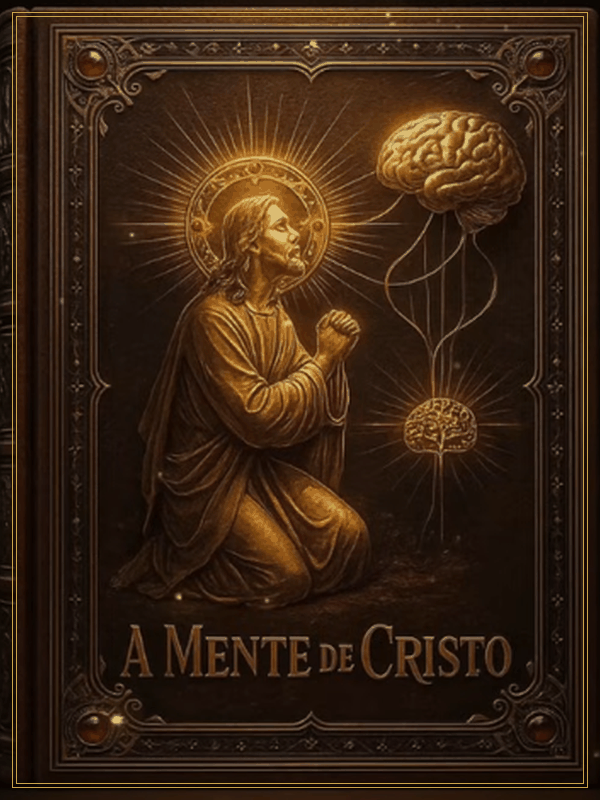
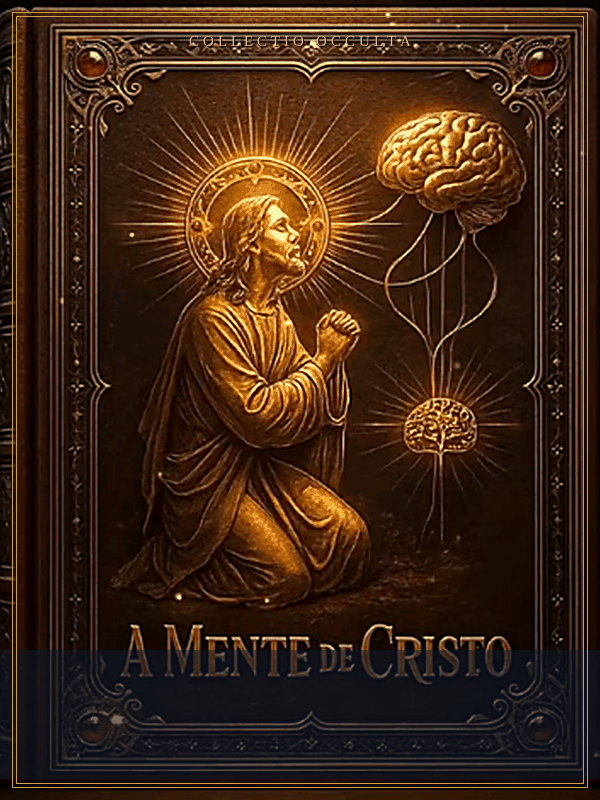
Livro 03 A Mente de Cristo: capa editada e melhorada (upscale+nitidez, contraste, vinheta, selo COLLECTIO OCCULTA, moldura dourada) e referências atualizadas para ?v=2 na Home e na página de leitura

diff --git a/analise/compraoseu.preview/mente_cristo_preview.html b/analise/compraoseu.preview/mente_cristo_preview.html
@@ -11,14 +11,14 @@
 <meta property="og:type" content="article">
 <meta property="og:title" content="A Mente de Cristo — Como Pensar com o Espírito e não com o Mundo">
 <meta property="og:description" content="17 capítulos baseados nos ensinamentos de Emmet Fox sobre pensar com o espírito. Leitura online gratuita e protegida.">
-<meta property="og:image" content="https://sidneyrma.github.io/instalador/capas/mente_cristo.png?v=1">
+<meta property="og:image" content="https://sidneyrma.github.io/instalador/capas/mente_cristo.png?v=2">
 <meta property="og:url" content="https://www.compraoseu.com/livro03">
 <meta property="og:locale" content="pt_BR">
 <meta property="og:site_name" content="Missão com Deus — CompraOSeu">
 <meta name="twitter:card" content="summary_large_image">
 <meta name="twitter:title" content="A Mente de Cristo — Como Pensar com o Espírito e não com o Mundo">
 <meta name="twitter:description" content="17 capítulos baseados nos ensinamentos de Emmet Fox sobre pensar com o espírito. Leitura online gratuita e protegida.">
-<meta name="twitter:image" content="https://sidneyrma.github.io/instalador/capas/mente_cristo.png?v=1">
+<meta name="twitter:image" content="https://sidneyrma.github.io/instalador/capas/mente_cristo.png?v=2">
 <style>
 :root{
   --navy:#0e1a2e; --navy2:#16283f;
@@ -117,7 +117,7 @@ footer{background:#0a1322; color:#7f8ca1; text-align:center; padding:1.6rem 1.2r
 </header>
 
 <section class="capa">
-  <img class="capa-livro" src="https://sidneyrma.github.io/instalador/capas/mente_cristo.png?v=1" alt="Capa do livro A Mente de Cristo">
+  <img class="capa-livro" src="https://sidneyrma.github.io/instalador/capas/mente_cristo.png?v=2" alt="Capa do livro A Mente de Cristo">
   <p class="selo">Coleção Oculta</p>
   <h1>A Mente de Cristo</h1>
   <p class="sub">Como Pensar com o Espírito e não com o Mundo</p>

diff --git a/analise/compraoseu.preview/home_preview.html b/analise/compraoseu.preview/home_preview.html
@@ -386,7 +386,7 @@
 
       <!-- LIVRO 03: A MENTE DE CRISTO -->
       <div class="bib-card">
-        <div class="bib-capa"><img class="capa-img" src="https://sidneyrma.github.io/instalador/capas/mente_cristo.png?v=1" alt="A Mente de Cristo — capa"></div>
+        <div class="bib-capa"><img class="capa-img" src="https://sidneyrma.github.io/instalador/capas/mente_cristo.png?v=2" alt="A Mente de Cristo — capa"></div>
         <div class="bib-corpo">
           <span class="bib-num">Livro 03 · Disponível</span>
           <h3>A Mente de Cristo</h3>

diff --git a/analise/compraoseu.preview/gerar_capa_mente_cristo.py b/analise/compraoseu.preview/gerar_capa_mente_cristo.py
@@ -1,29 +1,60 @@
 # -*- coding: utf-8 -*-
 """
-Prepara a capa de "A Mente de Cristo" (livro/A Mente de Cristo.png, 368x470)
-para o padrão da coleção: 600x800 (3:4), com moldura dourada e otimização web.
+Edição melhorada da capa de "A Mente de Cristo" (livro/A Mente de Cristo.png, 368x470).
+
+Melhorias aplicadas:
+  1. Crop central para 3:4 (600x800) — sem cortar o título "A MENTE DE CRISTO".
+  2. Upscale LANCZOS + nitidez (Unsharp Mask) para compensar a resolução pequena.
+  3. Realce de brilho, contraste e saturação (a original é escura, média ~40).
+  4. Vinheta suave nas bordas (padrão da coleção).
+  5. Faixa navy translúcida na base para destacar o título original.
+  6. Selo "COLLECTIO OCCULTA" dourado no topo (identidade da coleção).
+  7. Moldura dourada dupla (padrão das demais capas).
+  8. Otimização web: PNG-8 (256 cores) em docs/capas/mente_cristo.png.
 
 Saídas:
-  - analise/compraoseu.preview/imgs/capas_editadas/mente_cristo_capa.png (600x800)
+  - analise/compraoseu.preview/imgs/capas_editadas/mente_cristo_capa.png (600x800, PNG)
   - docs/capas/mente_cristo.png (600x800, PNG-8 otimizado p/ GitHub Pages)
 """
 import os
 import numpy as np
-from PIL import Image, ImageDraw, ImageFilter
+from PIL import Image, ImageDraw, ImageFilter, ImageFont, ImageEnhance
 
 ROOT = os.path.join(os.path.dirname(os.path.abspath(__file__)), '..', '..')
 SRC = os.path.join(ROOT, 'livro', 'A Mente de Cristo.png')
 OUT_CAPA = os.path.join(ROOT, 'analise', 'compraoseu.preview', 'imgs', 'capas_editadas', 'mente_cristo_capa.png')
 OUT_DOCS = os.path.join(ROOT, 'docs', 'capas', 'mente_cristo.png')
 
+FONTE_TEXTO = os.path.join(ROOT, 'livro', 'fontes', 'Tinos-Regular.ttf')
+FONTE_TITULO = os.path.join(ROOT, 'livro', 'fontes', 'Tinos-Bold.ttf')
+
 OURO = (201, 162, 75)
+OURO_CLARO = (227, 200, 119)
 W, H = 600, 800
+
+
+def desenha_selo(img):
+    """Selo 'COLLECTIO OCCULTA' centralizado no topo, com sombra."""
+    d = ImageDraw.Draw(img, 'RGBA')
+    try:
+        f = ImageFont.truetype(FONTE_TEXTO, 15)
+    except Exception:
+        f = ImageFont.load_default()
+    texto = "C O L L E C T I O   O C C U L T A"
+    # sombra
+    bbox = d.textbbox((0, 0), texto, font=f)
+    tw = bbox[2] - bbox[0]
+    x = (W - tw) // 2
+    d.text((x + 1, 33), texto, font=f, fill=(0, 0, 0, 170))
+    d.text((x, 32), texto, font=f, fill=OURO_CLARO + (255,))
+    return img
 
 
 def main():
     im = Image.open(SRC).convert('RGB')
     sw, sh = im.size
-    # cover-crop para 3:4
+
+    # --- 1) crop central 3:4 ---
     escala = max(W / sw, H / sh)
     nw, nh = round(sw * escala), round(sh * escala)
     im2 = im.resize((nw, nh), Image.LANCZOS)
@@ -31,29 +62,46 @@ def main():
     y0 = (nh - H) // 2
     capa = im2.crop((x0, y0, x0 + W, y0 + H))
 
-    # leve escurecimento nas bordas (vinheta) para integrar com o fundo da coleção
+    # --- 2) nitidez e realce ---
+    capa = capa.filter(ImageFilter.UnsharpMask(radius=2.2, percent=105, threshold=3))
+    capa = ImageEnhance.Brightness(capa).enhance(1.12)
+    capa = ImageEnhance.Contrast(capa).enhance(1.10)
+    capa = ImageEnhance.Color(capa).enhance(1.12)
+
+    # --- 3) vinheta suave ---
     arr = np.array(capa).astype(np.float32)
     yy, xx = np.mgrid[0:H, 0:W]
     dx = (xx - W / 2) / (W / 2)
     dy = (yy - H / 2) / (H / 2)
     d = np.sqrt(dx * dx + dy * dy)
-    vign = np.clip(1.0 - 0.30 * np.clip(d - 0.55, 0, None) ** 1.4, 0.55, 1.0)
+    vign = np.clip(1.0 - 0.32 * np.clip(d - 0.5, 0, None) ** 1.4, 0.55, 1.0)
     for ch in range(3):
         arr[:, :, ch] *= vign
     capa = Image.fromarray(np.clip(arr, 0, 255).astype(np.uint8))
 
-    # moldura dourada dupla (padrão da coleção)
+    # --- 4) faixa navy translúcida na base (destaca o título original) ---
+    overlay = Image.new('RGBA', (W, H), (0, 0, 0, 0))
+    d_ov = ImageDraw.Draw(overlay)
+    d_ov.rectangle([0, H - 150, W, H - 22], fill=(14, 26, 46, 135))
+    capa = Image.alpha_composite(capa.convert('RGBA'), overlay).convert('RGB')
+
+    # --- 5) selo no topo ---
+    capa = desenha_selo(capa)
+
+    # --- 6) moldura dourada dupla ---
     d = ImageDraw.Draw(capa)
     for inset in (12, 16):
         d.rectangle([inset, inset, W - 1 - inset, H - 1 - inset], outline=OURO, width=1)
 
+    # --- 7) salvar ---
     os.makedirs(os.path.dirname(OUT_CAPA), exist_ok=True)
     os.makedirs(os.path.dirname(OUT_DOCS), exist_ok=True)
     capa.save(OUT_CAPA)
-    capa_web = capa.quantize(colors=256, method=Image.Quantize.MEDIANCUT, dither=Image.Dither.FLOYDSTEINBERG)
+    capa_web = capa.quantize(colors=256, method=Image.Quantize.MEDIANCUT,
+                             dither=Image.Dither.FLOYDSTEINBERG)
     capa_web.save(OUT_DOCS, optimize=True)
-    print('Capa salva:', OUT_CAPA, capa.size)
-    print('Capa web:', OUT_DOCS, capa.size, f"({os.path.getsize(OUT_DOCS)//1024} KB)")
+    print('Capa melhorada:', OUT_CAPA, capa.size)
+    print('Capa web:', OUT_DOCS, capa.size, f'({os.path.getsize(OUT_DOCS)//1024} KB)')
 
 
 if __name__ == '__main__':

diff --git a/analise/compraoseu.preview/gerar_mente_cristo.py b/analise/compraoseu.preview/gerar_mente_cristo.py
@@ -14,7 +14,7 @@ DADOS = HERE / "mente_cristo_dados.json"
 TITULO = "A Mente de Cristo"
 SUBTITULO = "Como Pensar com o Espírito e não com o Mundo"
 URL = "https://www.compraoseu.com/livro03"          # posição do card na Home (Livro 03)
-CAPA = "https://sidneyrma.github.io/instalador/capas/mente_cristo.png?v=1"
+CAPA = "https://sidneyrma.github.io/instalador/capas/mente_cristo.png?v=2"
 
 DESC = "Leia online A Mente de Cristo — Como Pensar com o Espírito e não com o Mundo. 17 capítulos baseados nos ensinamentos de Emmet Fox. Leitura gratuita e protegida."
 KEYWORDS = "a mente de Cristo, emmet fox, mente de Cristo, pensamento espiritual, renovar a mente, ensinamentos de Jesus, consciência de Cristo, livro cristão, leitura online grátis"

diff --git a/analise/seo/kit_seo_completo.md b/analise/seo/kit_seo_completo.md
@@ -103,7 +103,7 @@
 ### OG / Twitter
 - **OG Title:** `A Mente de Cristo — Como Pensar com o Espírito e não com o Mundo`
 - **OG Description:** `17 capítulos baseados nos ensinamentos de Emmet Fox sobre pensar com o espírito. Leitura online gratuita e protegida.`
-- **Imagem OG:** `https://sidneyrma.github.io/instalador/capas/mente_cristo.png` (a capa)
+- **Imagem OG:** `https://sidneyrma.github.io/instalador/capas/mente_cristo.png?v=2` (a capa, versão editada/melhorada)
 - **OG Type:** `article` · **Twitter:** `summary_large_image`
 
 ### Configurações
